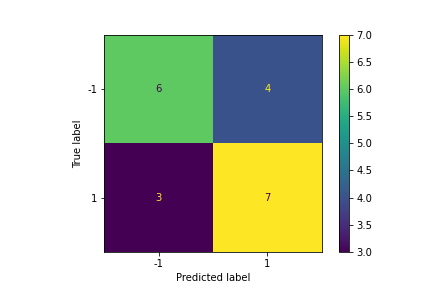
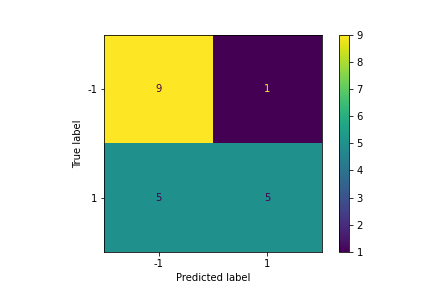
Done

diff --git a/Artur_Smiechowski_Lab5.py b/Artur_Smiechowski_Lab5.py
@@ -1,5 +1,8 @@
 """
 @author: Artur Smiechowski
+A program that loads up emg data, epochs it, and extracts and calculates relevant data features.
+Then it uses it to create a SVC model to predict future emg data. Then it evaluates the accuracy of the model both numerically
+and graphically, saving those resulting plots locally.
 """
 # %% Imports
 import numpy as np
@@ -22,7 +25,13 @@ Reader.record_data(com_port='COM3', recording_duration=60, n_channels=3, fs=500,
 
 def load_data(name):
     '''load_data
+    Parameters-
+    name : str : The name associated with the loaded files
+    Returns
+    emg_data : 2D np array : the emg sensor data
+    emg_time : 1D np array : the timestamps of associated samples
     
+    loads both emg and time data of specified name
     '''
     emg_data = np.load(str(name) + '_RPS_Data.npy') # Load in data
     emg_time = np.load(str(name) + '_RPS_Time.npy') # Load in time
@@ -31,7 +40,14 @@ def load_data(name):
 
 def epoch_data(emg_data, fs, epoch_duration):
     '''epoch_data
+    Parameters
+    emg_data : 2D np array : the emg sensor data
+    fs : int : the sampling frequency
+    epoch_duration : float : the length of each epoch in seconds
+    Returns
+    epoched_data : 3D np array : the emg data divided into epochs
     
+    Seperates the given emg data into epochs
     '''
     # Subtract the mean offset from each channel
     for channel in range(np.size(emg_data, 1)): # Double check the array dimensions
@@ -49,7 +65,13 @@ def epoch_data(emg_data, fs, epoch_duration):
 
 def extract_features(epoched_data):
     '''extract_features
-
+    Parameters
+    epoched_data : 3D np array : the emg data split into epochs
+    Returns
+    features : 2D np array : several calculated parameters of the epoched data
+    feature_shorthands : 1D str list : a list of the feature name shorthands
+    
+    Exctracts and calculates a set of features for use in ML // Variance, Mean Absolute Vale (MAV), Zero Crossing events (ZC)
     '''
     # Initialie the feature sub-matrices
     epoch_var = np.zeros([np.size(epoched_data, 0), np.size(epoched_data, 2)]) # variance
@@ -85,7 +107,13 @@ def extract_features(epoched_data):
 
 def make_truth_data(action_sequence, epochs_per_action):
     '''make_truth_data
+    Parameters
+    action_sequence : 1D str list : the whole seuqence of actions over the recording period
+    epochs_per_action : int : the number of epochs per second
+    Returns
+    instructed_action : 1D str list : the total list of actions acounting for duplicate actions each second due to multipole epochs per second
     
+    Creates a list of true actions factoring in repeats due to multiple epochs per second
     '''
     instructed_action = [] # Create the empty list for instructed actions
     for action in range(len(action_sequence)): # I guess we're assuming non-fractional values at this point? (I'd code around that but time)
@@ -96,6 +124,15 @@ def make_truth_data(action_sequence, epochs_per_action):
 
 def crop_mi_inputs(features, truth_labels, included_truth_labels): # --- MAY BE DOABLE WITH NP.ARRAY SIMPLIFICATION!!!
     '''crop_mi_inputs
+    Parameters
+    features : 2D np array : array of features from emg data
+    truth_labels : 1D str list : the labels of actions that actually where performed at the associated epoch
+    included_truch_labels : 1D str list : the actions to keep when cropping labels
+    Returns
+    kept_labels : 1D str list : the list of labels kept after cropping, in same order and count as before
+    kept_features : 2D np array : the features associated with the kept labels, kept after cropping
+    
+    Crops out and returns truth labels and features that are specified
     '''
     bool_index = [] # Initialize an empty list to store the boolean indexes
     for truth in truth_labels: # Create the boolean indexer
@@ -115,7 +152,8 @@ epoched_data = epoch_data(emg_data, 500, 1) # Epoch the data
 features, feature_shorthands = extract_features(epoched_data) # Extract the features and the shorthands // seriously why the shorthands?
 instructed_action = make_truth_data(['rest','rock','rest','paper','rest','scissors']*10, 1) # Create the truth labels
 truth_labels_ps, features_ps = crop_mi_inputs(features, instructed_action, ['paper','scissors']) # Crop out only the paper and scissors labels and features
-'''
+
+''' //Used her data to verfiy/sanity check myself before. Turns out there's some really weird but rare anomalies in my data (see the 1 instance of the emg reading over 2100 (index 48905 of flattened array))
 emg_data, emg_time = load_data("Klinger") # Load in data
 epoched_data = epoch_data(emg_data, 500, 1) # Epoch the data
 features, feature_shorthands = extract_features(epoched_data) # Extract the features and the shorthands // seriously why the shorthands?
@@ -127,6 +165,14 @@ truth_labels_ps, features_ps = crop_mi_inputs(features, instructed_action, ['pap
 
 def scatter_plot(two_features, feature_names, truth_matrix):
     '''scatter_plot
+    Parameters
+    two_features : 2D np array : 2 select columns of features from the feature array
+    feature_names : 1D str list : the names of the assocuated features
+    truth_matrix : 1D str list : list of labels to use in plot
+    Returns
+    NONE
+    
+    Plots a scatter plot of the given features vs one another considering the action associated with them
     '''
     # Two features is split into 4 variables for ease of use and readability // It's 2021, memory usage is a distant memory, seriously though back when I was all mCU all the time I had an optimization obsession
     # a features
@@ -163,10 +209,24 @@ plt.tight_layout()
 # Save the current figure
 plt.savefig('Paper_vs._Scissors_Scatter_Plot.png')
 
+'''Explanation:
+    It would seem that the greatest correlation is between Variances on channels 1 and 2, relatively falling along the same line.
+    This may be due to the fact that this is the only plot in which the vlaues are of the same type (Variance), since similarly contracting muscles should
+    produce simialr behavoir along the same parameters it could be explained that since paper and scissors are very similar gestures that would result in this correlation
+    due to a similar ensemble of muscle contracting to produce them, ie same muscle contractions should produce a similar variance pattern
+'''
+
 # %% Part 4
 
 def fit_classifier(features, labels):
     '''fit_classifier
+    Parameters
+    features : 2D np array : array of calculated features
+    labels : 1D str list : labels to compare when binarizing
+    Returns
+    LinSVC : LinearSVC : a linear SVC model fit to the given feature and labels parameters
+    
+    Creates and fits a Linear SVC model to a given set of features and labels
     '''
     binary_labels = [] # Create an empty list to be the binarized lables // Not reassigning labels values to avoid recall issues
     for label in labels: # Iterate through each label in labels
@@ -176,6 +236,8 @@ def fit_classifier(features, labels):
             binary_labels.append(-1)
             
     LinSVC = svm.LinearSVC(C=1e6) # Create the linear SVC object
+    # Note: Due to small smaple size here (20 as instructed by lab) the model does not converge, meaning that subsequenct runs produce varying solutions and accuracies
+    # ranging from 0.45 to 0.65 observed (I get the feeling this should be higher given the overfitting og the model, maybe because my own data is anomalous)
     
     return LinSVC.fit(features, binary_labels) # Return the trained classifier object // Note that training on 20 samples is not enough to converge
 
@@ -196,6 +258,14 @@ print("z' = " + to_print + f" {round(b, 3)}") # Print the full equation
 
 def predictor_histogram(trained_classifier, features, truth_labels):
     '''predictor_histogram
+    Parameters
+    trained_classifier : LinearSVC : a linear SVC model to create predictions
+    features : 2D np array : emg features
+    truth_labels : 1D str list : the list of truth labels
+    Returns
+    NONE
+    
+    Plots a histogram of the predicotrs calcuated by the given model
     '''
     # Isolate the z' scores of the actions
     paper_scores = trained_classifier.decision_function(features)[truth_labels == 'paper'] # Isolate the z' scores of the true paper actions
@@ -220,6 +290,14 @@ def predictor_histogram(trained_classifier, features, truth_labels):
  
 def evaluate_classifier(trained_classifier, features, truth_labels):
     '''evaluate_classifier
+    Parameters
+    trained_classifier : LinearSVC : a trained linear SVC model to evaluate
+    features : 2D np array : the feature array to use in evaluation
+    truth_labels : 1D str list : the list of truth labels
+    Returns
+    NONE
+    
+    Evaluates the accuracy of the the given SVC model, plots a confusion matrix of it too
     '''
     # Reusing binarization code since can't compare strings and floats // Feels like there's a better way since I'm repeating here but other than saving binary_labels as global var am unsure
     binary_labels = [] # Create an empty list to be the binarized lables // Not reassigning labels values to avoid recall issues
@@ -242,3 +320,44 @@ evaluate_classifier(Paper_Scissors_LinSVC, features_ps, truth_labels_ps)
 
 # %% Part 6
 
+# Use the same method calls as before but with lab partner
+emg_data, emg_time = load_data("Klinger") # Load in data
+epoched_data = epoch_data(emg_data, 500, 1) # Epoch the data
+features, feature_shorthands = extract_features(epoched_data) # Extract the features and the shorthands // seriously why the shorthands?
+instructed_action = make_truth_data(['rest','rock','rest','paper','rest','scissors']*10, 1) # Create the truth labels
+truth_labels_ps, features_ps = crop_mi_inputs(features, instructed_action, ['paper','scissors']) # Crop out only the paper and scissors labels and features
+
+Paper_Scissors_LinSVC = fit_classifier(features_ps, truth_labels_ps) # fit to her data, commented out when evaluating my model on her data
+
+# Create the plots to evaluate the model
+plt.clf() # Clear the figure just in case
+
+# Create a set of subplots comparing features
+plt.suptitle('Feature comparisons') # Add a title over the whole figure
+# Subplot Variance on channel 1 vs channel 2
+plt.subplot(2,2,1)
+scatter_plot(np.transpose([features_ps[:,1],features_ps[:,2]]),[feature_shorthands[1],feature_shorthands[2]],truth_labels_ps)
+# Subplot MAC vs ZC on channel 0
+plt.subplot(2,2,2)
+scatter_plot(np.transpose([features_ps[:,3],features_ps[:,6]]),[feature_shorthands[3],feature_shorthands[6]],truth_labels_ps)
+# Subplot Variance on channel 0 vs ZC on channel 2
+plt.subplot(2,2,3)
+scatter_plot(np.transpose([features_ps[:,0],features_ps[:,8]]),[feature_shorthands[0],feature_shorthands[8]],truth_labels_ps)
+# Use a tight layout to avoid plot overlap
+plt.tight_layout()
+# Save the current figure
+plt.savefig('Paper_vs._Scissors_Scatter_Plot.png')
+
+# The other 2 plotting methods
+predictor_histogram(Paper_Scissors_LinSVC, features_ps, truth_labels_ps)
+evaluate_classifier(Paper_Scissors_LinSVC, features_ps, truth_labels_ps)
+
+'''Explanation:
+    My classifier does generally perform better on my own data than on Klinger's, but not as much as would be expected for an overfit classifier using the same data to train as it is predicting
+    I understand that given proper training of a model (here 20 values is not enough) the accuracy should be higher (60% is susiciously low for an overfitted SVM), I think some of this
+    is due to the weirdness of my own data. Normally I shuld expect some drop in accuracy for my partner's data since there are differences in the behavior of our data,
+    ie the placement of her sensors could be different, our physiology different leading to different readings
+    I can confirm that trained on her data even 20 entries perform much better when evaluating her data, minimum 70% accuracy, I chalking some if it up to issues with my data (need to check it before taking off sensors next time)
+    Now this kind of training is not actually good for a real life application as you never want to train a model on the same values it is going to work with, if you do you get overfitting and loss
+    of accuracy in a real world model
+'''

diff --git a/Reader.py b/Reader.py
@@ -69,7 +69,7 @@ def record_data(com_port='COM4', recording_duration=60, n_channels=3, fs=500, ou
     Records emg data from multiple channels for given time
     
     Parameters
-    com_port ~ string ~ specifices the port the emg device is on
+    com_port : string ~ specifices the port the emg device is on
     recording_duration ~ int ~ the recording period in seconds
     n_channels ~ int ~ the number of channels/devices being recorded
     fs ~ int ~ the emg sampling frequency
